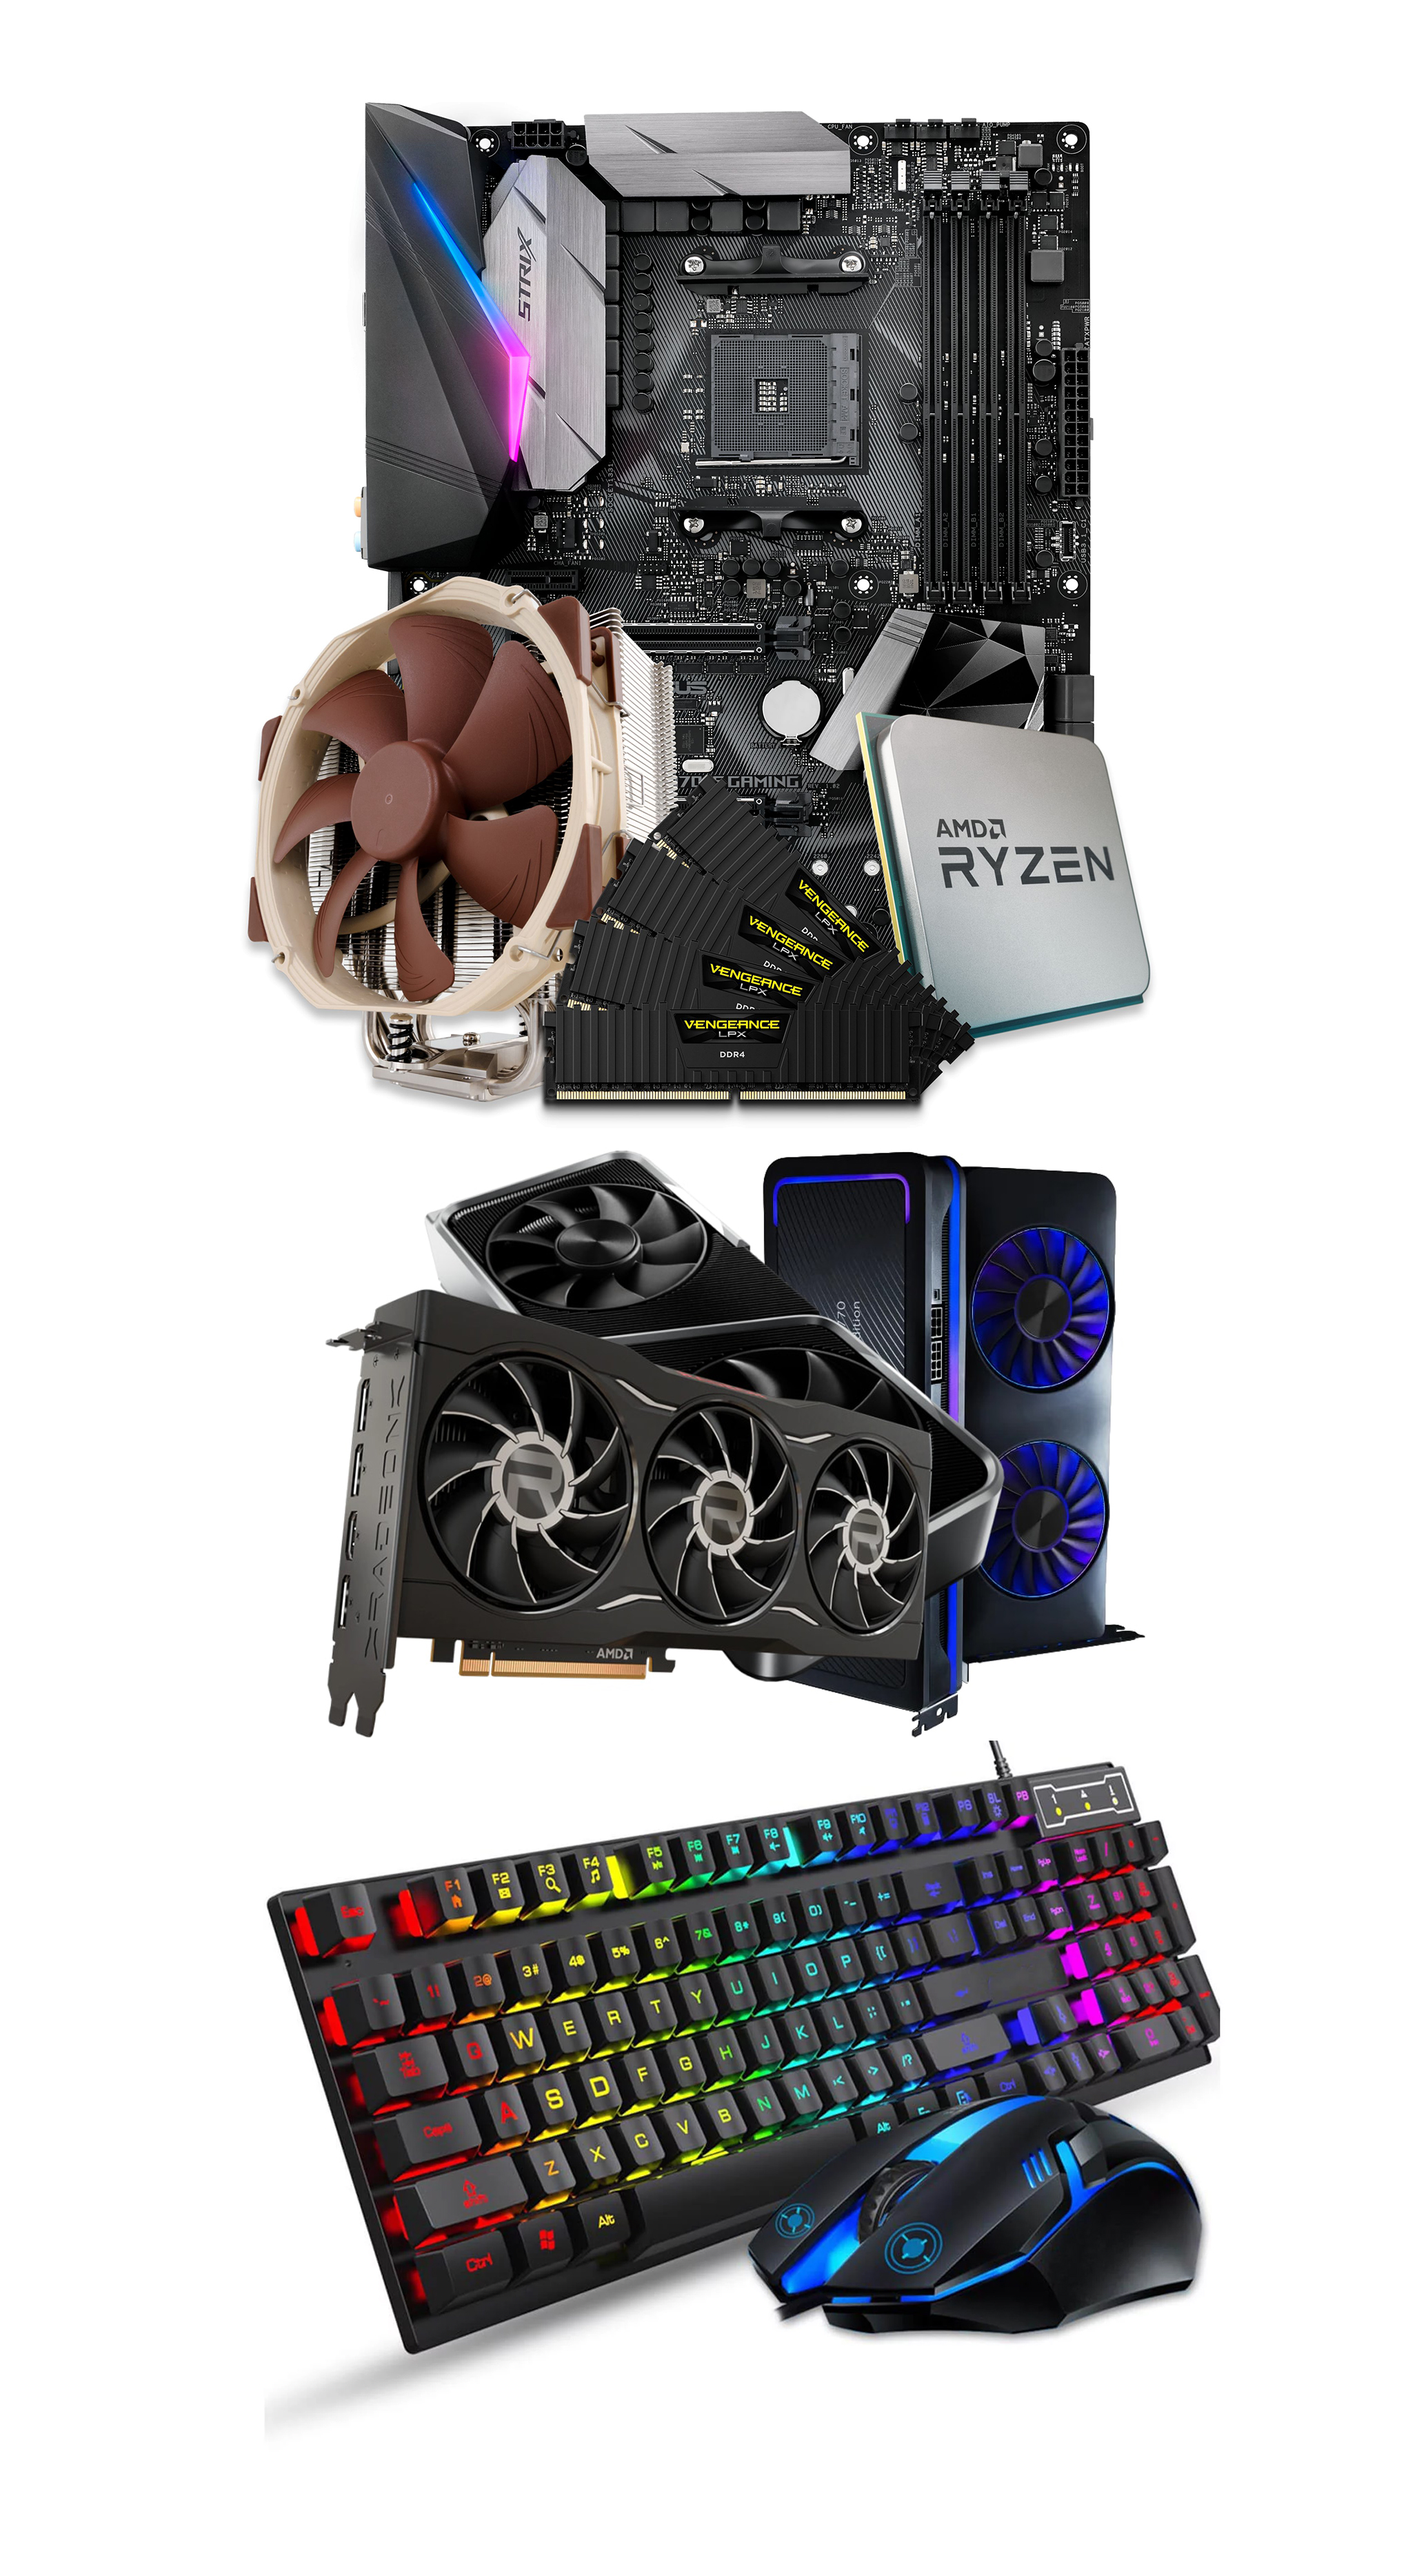
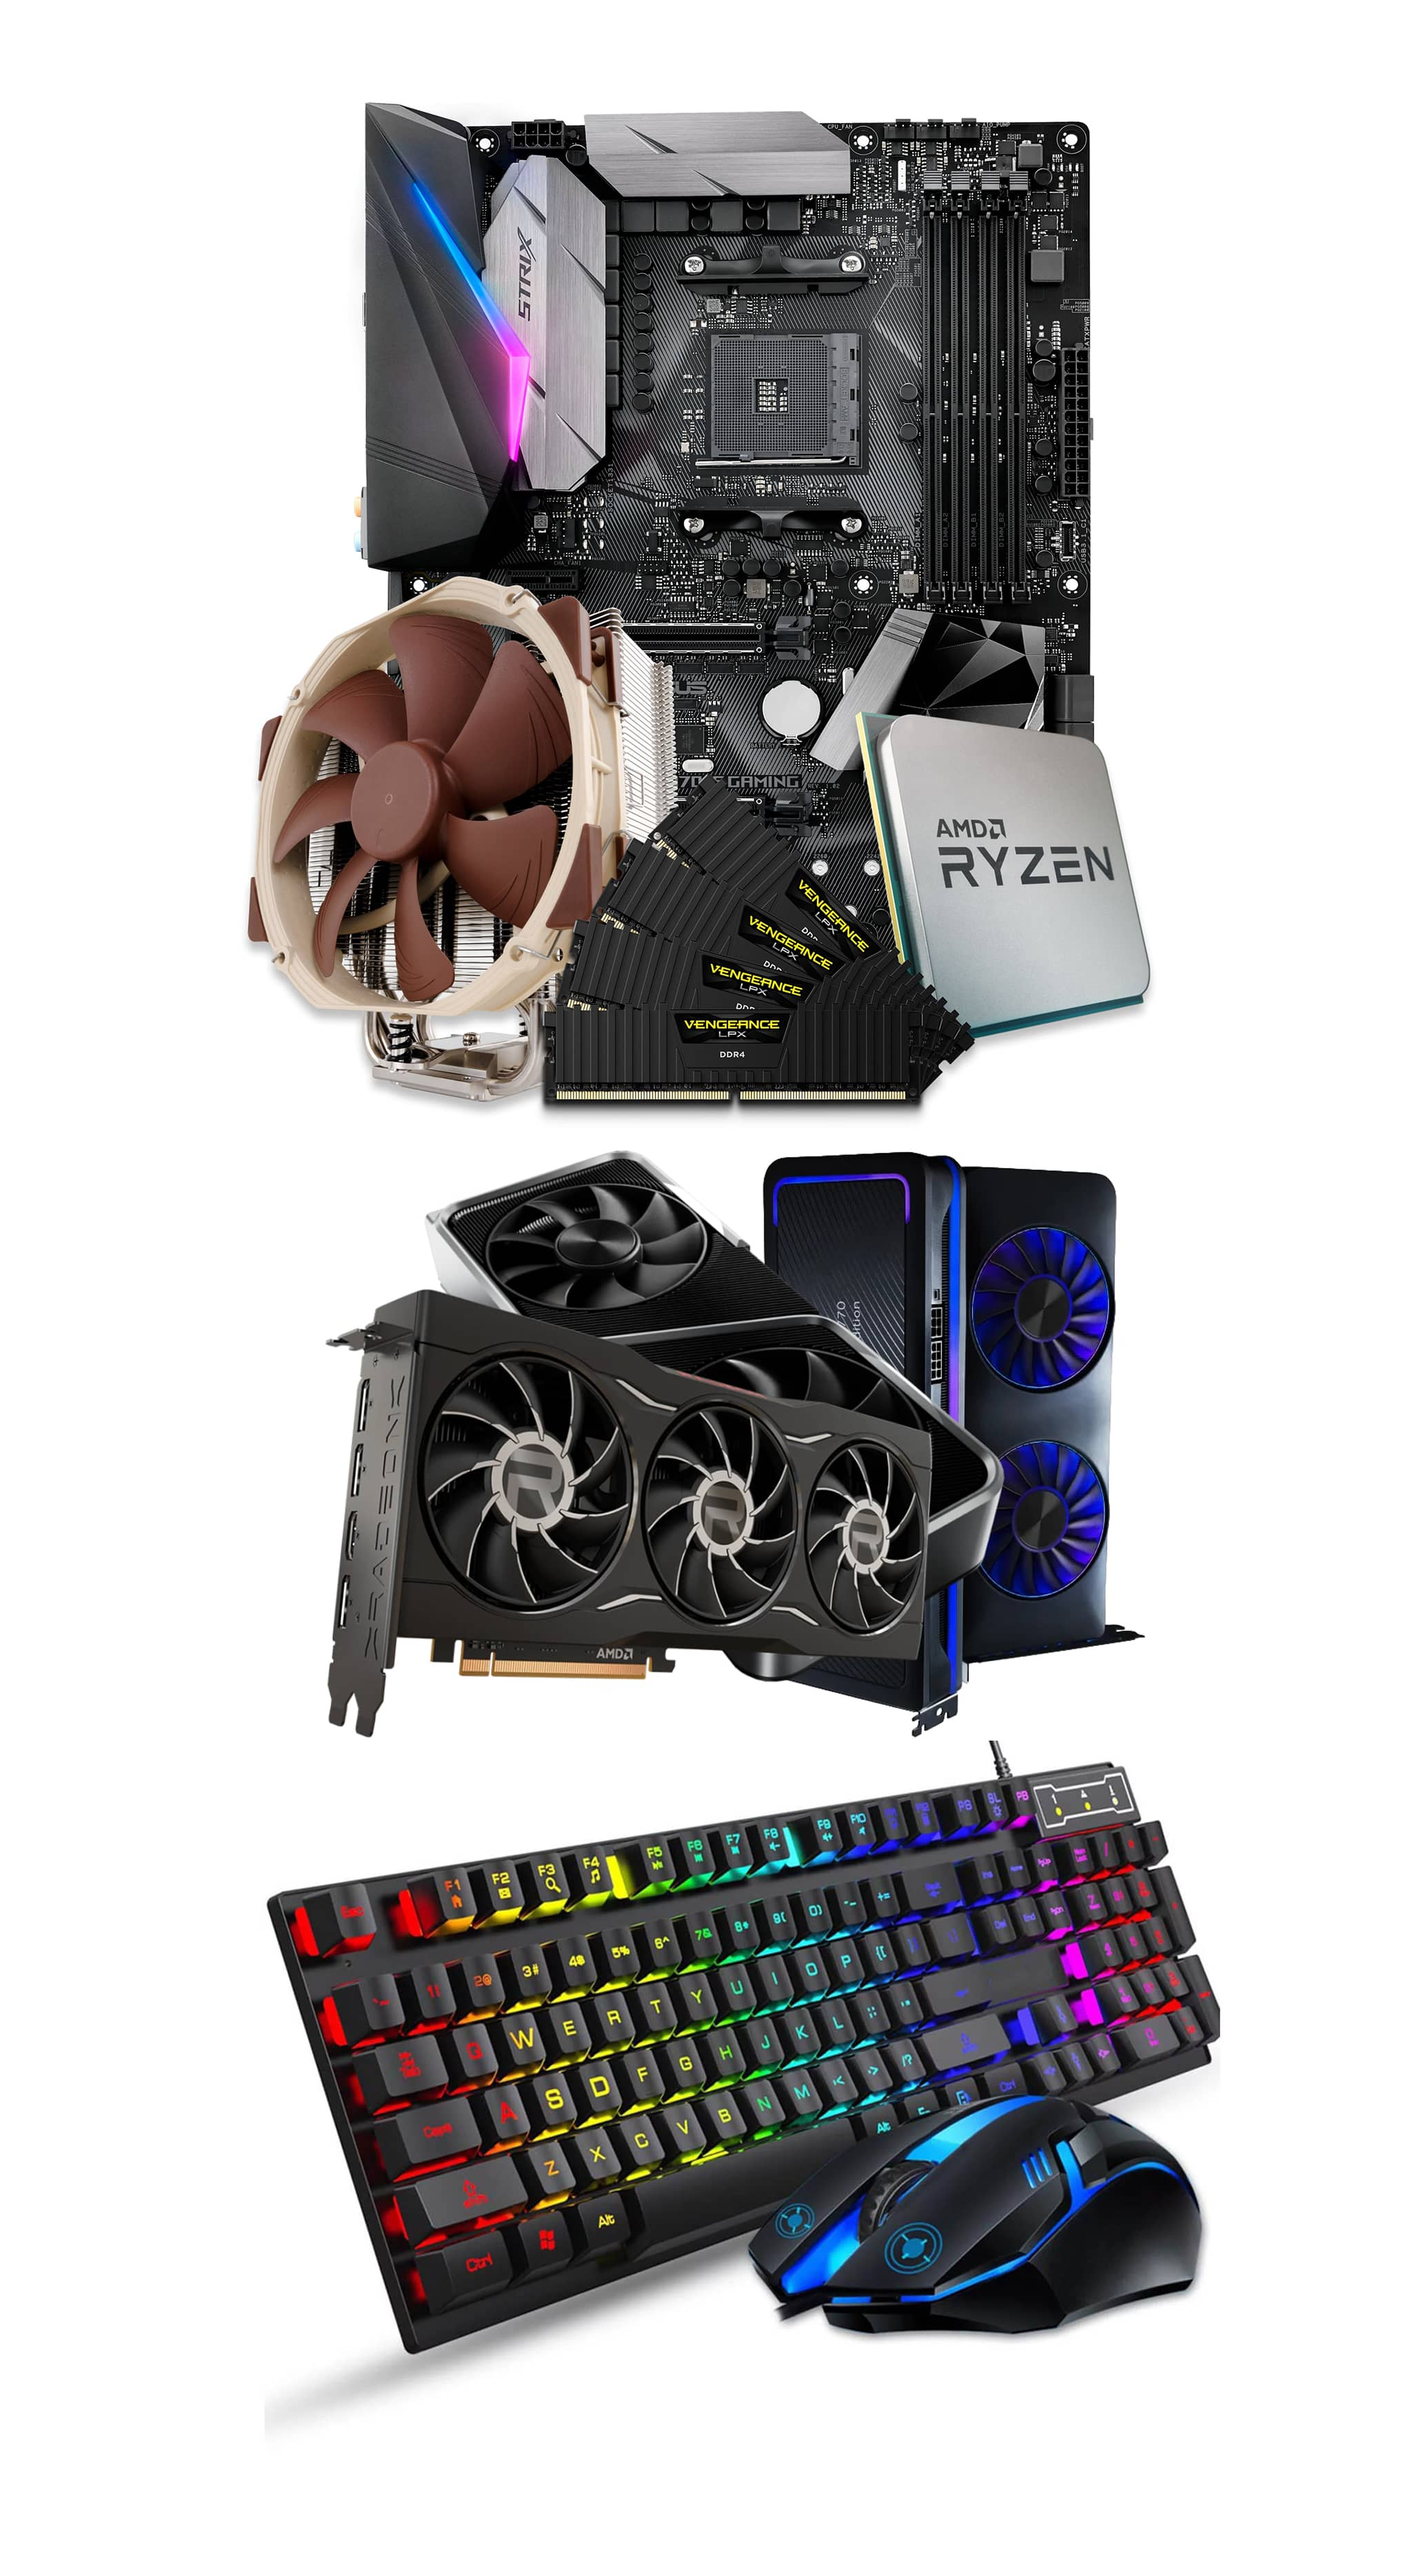
optimized images

Changed region(s): [[0.4983, 0.3728, 0.5606, 0.4039], [0.5606, 0.3417, 0.5917, 0.3728]]

diff --git a/src/elements/About.jsx b/src/elements/About.jsx
@@ -439,7 +439,7 @@ class About extends Component {
               <div className="col-lg-12">
                 <div className="section-title service-style--3 text-center mb--25 mb_sm--0">
                   <h2 className="title">New Products</h2>
-                  <p>
+                  <p style={{ padding: "0px" }}>
                     Explore Asia Tech's extensive catalog featuring over 1000
                     high-quality products, including computer components, mobile
                     parts, television innovations, and much more. We

diff --git a/src/component/HomeLayout/homeOne/Portfolio2.jsx b/src/component/HomeLayout/homeOne/Portfolio2.jsx
@@ -142,7 +142,7 @@ class Portfolio extends Component {
                   </div>
                   <div className="content">
                     <div className="inner">
-                      <p>{value.category}</p>
+                      {/* <p>{value.category}</p> */}
                       <h4 className="title">
                         {/* <a href="/portfolio->{value.title}</a> */}
                       </h4>
